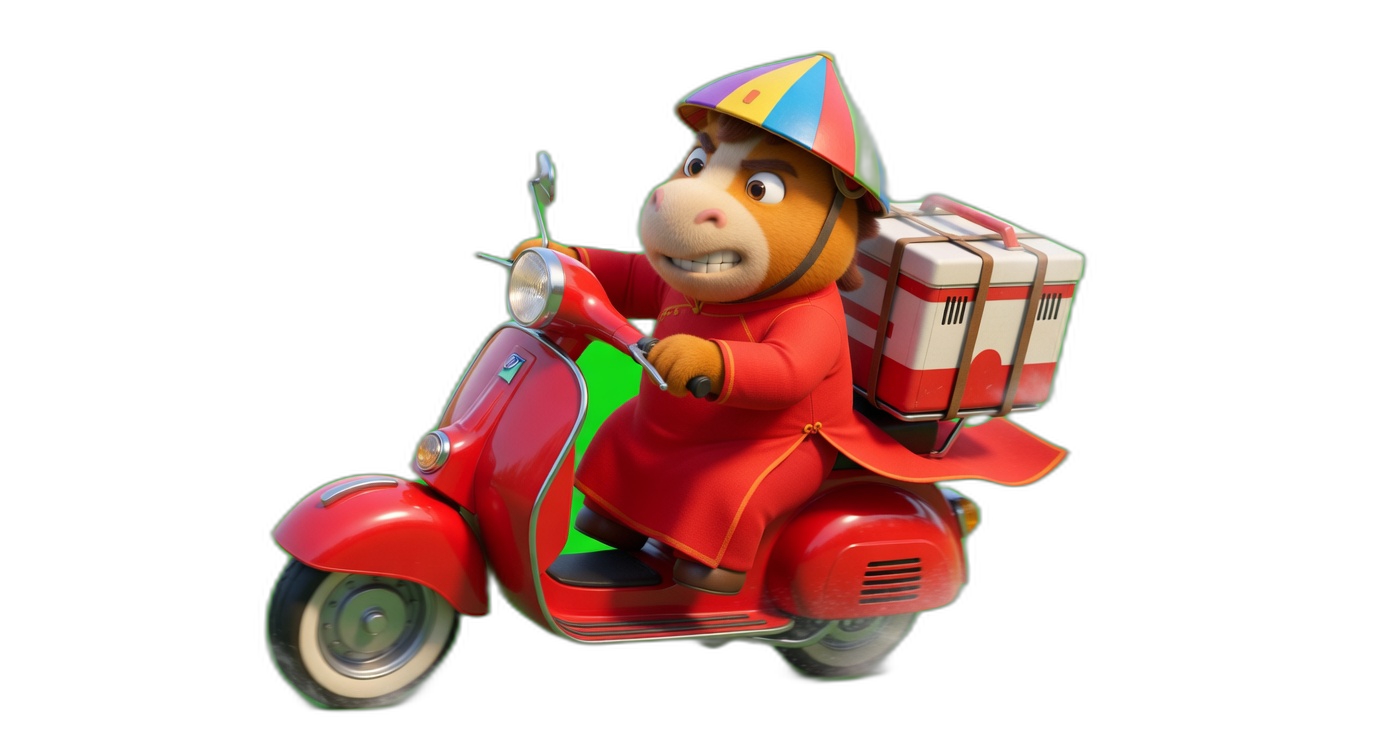
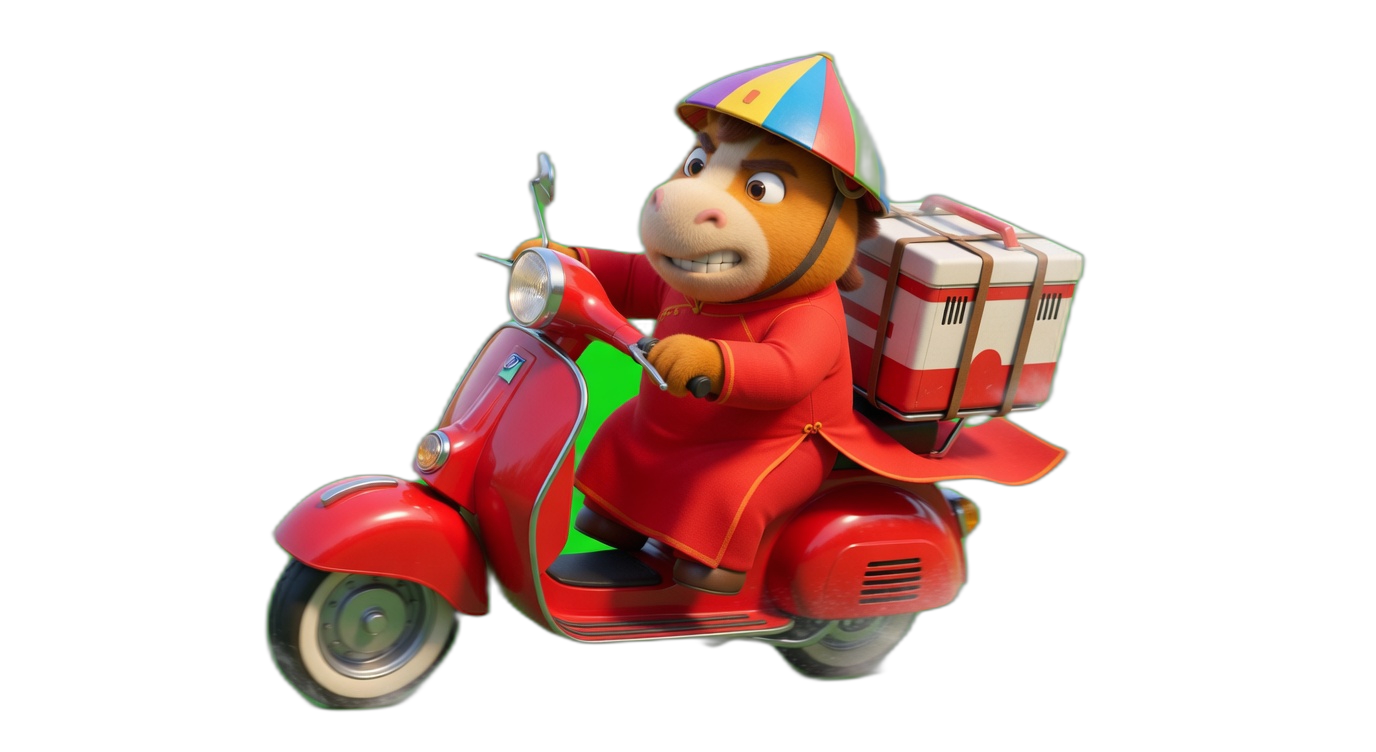
xoá nền và sửa lại vị trí cho login và story

diff --git a/login.html b/login.html
@@ -34,7 +34,7 @@
 
         <!-- Cột phải — form -->
         <div class="auth-form-side">
-           <img src="assets/images/mascot_login.png" alt="Ngựa Tết mời đăng nhập" class="top-mascot">
+           <img src="assets/images/blogin.png" alt="Ngựa Tết mời đăng nhập" class="top-mascot">
             <div class="auth-card">
                 <h2 class="auth-title">Tài khoản</h2>
                 <p class="auth-subtitle">Đăng nhập hoặc tạo tài khoản mới</p>

diff --git a/story.html b/story.html
@@ -60,7 +60,7 @@
         </div>
       </section>
       
-      <img src="assets/images/mascot_story.png" alt="Ngựa Tết kể chuyện" class="story-mascot">
+      <img src="assets/images/bstory.png" alt="Ngựa Tết kể chuyện" class="story-mascot">
       <!-- ======================== CÂU CHUYỆN 1 - Hình Trái, Chữ Phải ======================== -->
       <section class="story-section s1 reveal-section" data-reveal-group>
         <div class="story-container">

diff --git a/assets/css/story.css b/assets/css/story.css
@@ -538,9 +538,9 @@ body {
 }
 
 .story-mascot {
-  width: 300px; 
+  width: 250px; 
   position: relative;
-  top: 5px;   
+  top: 350px;   
   right: 20px; 
   filter: drop-shadow(0 4px 4px rgba(255,255,255,0.8));
   z-index: 10;

diff --git a/assets/css/login.css b/assets/css/login.css
@@ -45,8 +45,8 @@
 .top-mascot {
   width: 200px; 
   position: absolute;
-  bottom: 3;
-  right: -20px;
+  bottom: 200px;
+  right: -15px;
   filter: drop-shadow(0 4px 4px var(--white));
   z-index: 2;
 }
